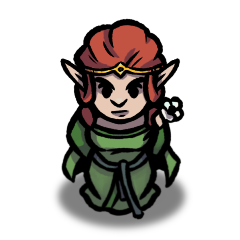
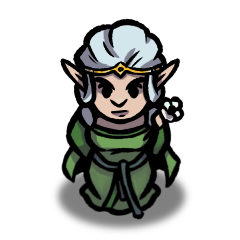
Updated hair color

Changed region(s): [[0.3208, 0.0875, 0.6708, 0.525]]

diff --git a/content/Peoples/Eboncrest/Elara Willowhart.md b/content/Peoples/Eboncrest/Elara Willowhart.md
@@ -32,7 +32,9 @@ Elara's deep connection to nature and her innate elven abilities make her a reve
 
 #### Appearance
 
-Elara is a striking figure, embodying the elegance and timeless beauty characteristic of elves. She stands tall with a slender frame, her movements fluid and graceful. Her long, flowing hair is a rich auburn, often adorned with delicate flowers and leaves. Elara's piercing green eyes reflect her deep connection to nature and her sharp intellect. She dresses in robes of earthy tones, intricately embroidered with floral patterns, exuding both her natural affinity and her sophisticated style.
+Elara is a striking figure, embodying the elegance and timeless beauty characteristic of elves. She stands tall with a slender frame, her movements fluid and graceful. Her long, flowing hair is a striking platinum blonde, often adorned with delicate flowers and leaves. 
+
+Elara's piercing green eyes reflect her deep connection to nature and her sharp intellect. She dresses in robes of earthy tones, intricately embroidered with floral patterns, exuding both her natural affinity and her sophisticated style.
 
 ---
 
